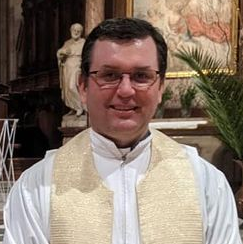
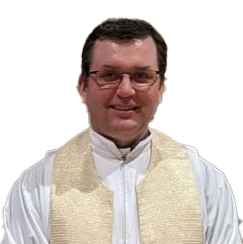
Update priests

diff --git a/app/EniInformation.tsx b/app/EniInformation.tsx
@@ -1,28 +1,34 @@
 import {Section} from "../components/Section";
-import {CalendarName, getCalendarInfo} from "./(domain)/events/CalendarInfo";
-import {motion} from "framer-motion";
+import {CalendarName, getCalendarInfo} from "@/domain/events/CalendarInfo";
 import Link from "next/link";
 
 
 function Person(props: { img: string; name: string; role: string; mail: string; }) {
-  return <div className="flex flex-col items-center text-center">
-    <div className="rounded-lg shadow-lg aspect-square w-full lg:w-52 relative overflow-hidden">
-      <div style={{backgroundImage: `url(${props.img})`}} className="absolute inset-0 bg-cover"/>
-    </div>
-    <div className="text-xl font-bold mt-4">{props.name}</div>
-    <div className="italic">{props.role}</div>
-    <div className="underline ">{props.mail}@eni.wien</div>
-  </div>;
+  return;
 }
 
 export function EniInformation() {
   return <>
     <Section id="personal" title="Unsere Priester">
-      <div className="grid grid-cols-2 lg:grid-cols-4 gap-10">
-        <Person img="/personal/zvonko.png" name="Dr. Zvonko Brezovski" role="Pfarrer" mail="pfarrer"/>
-        <Person img="/personal/marcin.png" name="Marcin Wojciech" role="Pfarrvikar" mail="pfarrvikar"/>
-        <Person img="/personal/gil.png" name="Gil Vicente Thomas" role="Aushilfskaplan" mail="kaplan.e"/>
-        <Person img="/personal/david.png" name="David Campos" role="Aushilfskaplan" mail="kaplan.in"/>
+      <div className="flex gap-4 items-stretch">
+        <div className="flex-1 flex flex-col items-center text-center rounded-lg shadow-lg bg-white">
+          <div className="grow flex flex-col justify-center">
+            <div className="text-lg font-semibold">Gil Vicente Thomas</div>
+            <div className="italic">Aushilfskaplan</div>
+            <a className="underline" href="mailto:kaplan.e@eni.wien">kaplan.e@eni.wien</a>
+          </div>
+          <div className=" aspect-square w-full lg:w-52 relative bg-[url(/personal/gil.png)] bg-cover"/>
+        </div>
+        <div className="bg-white rounded-lg shadow-xl overflow-hidden flex-[3] flex">
+          <div className="flex flex-col items-center justify-center text-center grow">
+            <div className="font-bold italic text-xl">Fürchte dich nicht,<br/>du hast Gnade bei Gott gefunden!</div>
+            <div className="text-lg font-semibold mt-4">Pfarrer Dr. Zvonko Brezovski</div>
+            <a className="underline" href="mailto:pfarrer@eni.wien">pfarrer@eni.wien</a>
+          </div>
+          <div style={{backgroundImage: `url(/personal/zvonko.png)`}}
+               className="bg-cover aspect-square w-full lg:w-80"/>
+        </div>
+
       </div>
     </Section>
     <Section title="Unsere Pfarren">
@@ -38,12 +44,9 @@ function Parish(props: { name: CalendarName; index: number }) {
   const info = getCalendarInfo(props.name);
   return <div className="flex flex-col items-center text-center w-full">
     <div className={"rounded-lg overflow-hidden h-44 relative w-full " + info.className}>
-      <motion.div
-        style={{backgroundImage: `url(${info.image})`}}
-        className="w-full h-full rounded-lg bg-contain bg-no-repeat bg-bottom"
-        whileInView={{translateY: 0, scale: 1, opacity: 1}}
-        transition={{delay: 0.1 * props.index, bounce: 0}}
-        initial={{translateY: 50, opacity: .9}}
+      <div
+          style={{backgroundImage: `url(${info.image})`}}
+          className="w-full h-full rounded-lg bg-contain bg-no-repeat bg-bottom"
       />
     </div>
     <div className="text-xl font-bold mt-4">{info.fullName}</div>

diff --git a/app/page.tsx b/app/page.tsx
@@ -15,6 +15,7 @@ import {fetchEmmausbote} from "@/app/(shared)/Weekly";
 import {PrayerWall} from "@/app/(emmaus-only)/gebetswand/PrayerWall";
 import * as React from "react";
 import {Alpha} from "@/app/Alpha";
+import {EniInformation} from "@/app/EniInformation";
 
 export const revalidate = 300
 
@@ -28,7 +29,7 @@ export default async function HomePage() {
      <ComingUp/>
         <EniSections/>
         <Instagram/>
-        {/**<EniInformation/>**/}
+        <EniInformation/>
       </Responsive>
     </Site>, async () => <Site responsive={false} navbar={false}>
       <div className="md:sticky inset-0 w-full">

diff --git a/components/InstagramMore.tsx b/components/InstagramMore.tsx
@@ -32,7 +32,6 @@ export function InstagramMore() {
       {feed.map((item, index) =>
         <InstagramItem key={index} item={item}/>)}
     </div>
-    {JSON.stringify({data})}
     {items.length > length && <div className="flex justify-end my-4">
         <Button label={<>Mehr</>} onClick={() => setLength(x => x + 3)}/>
     </div>}
